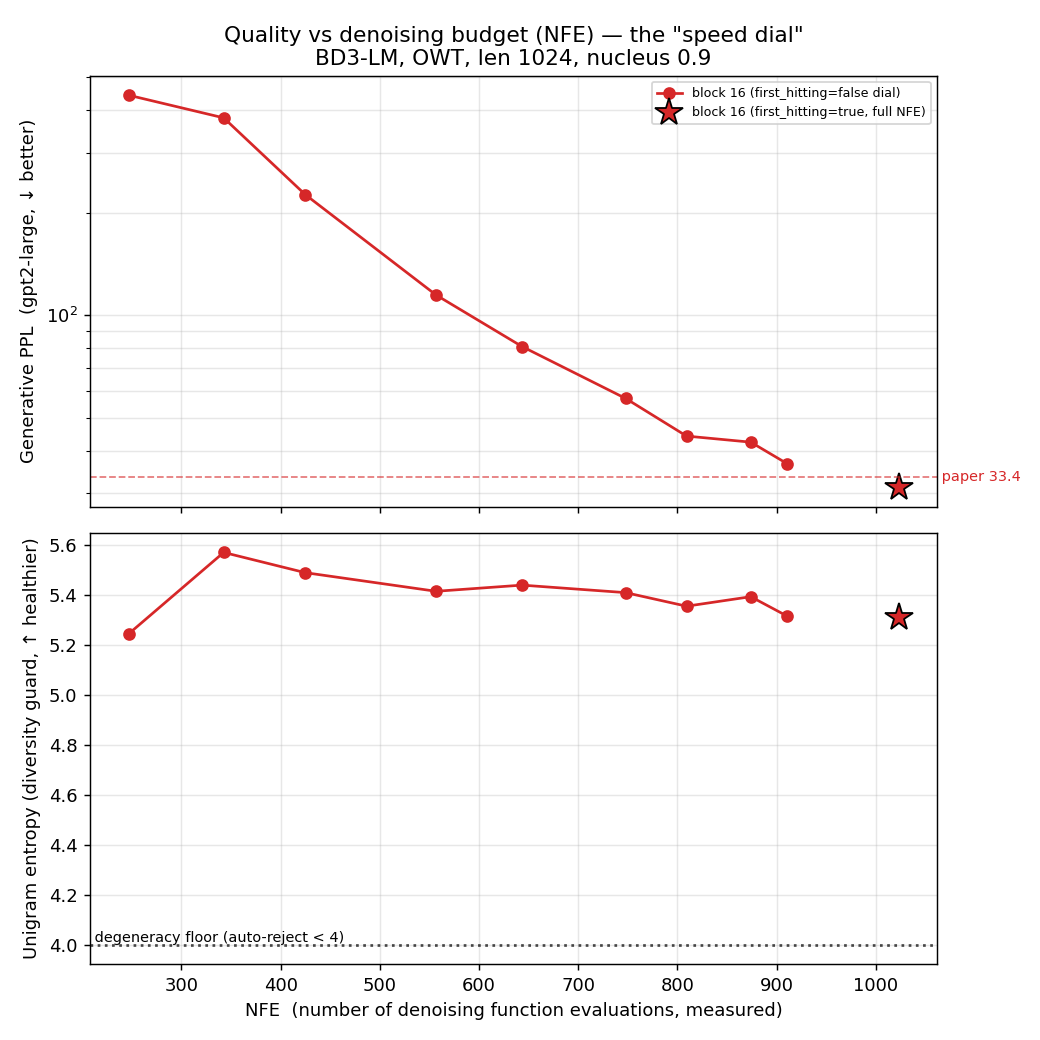
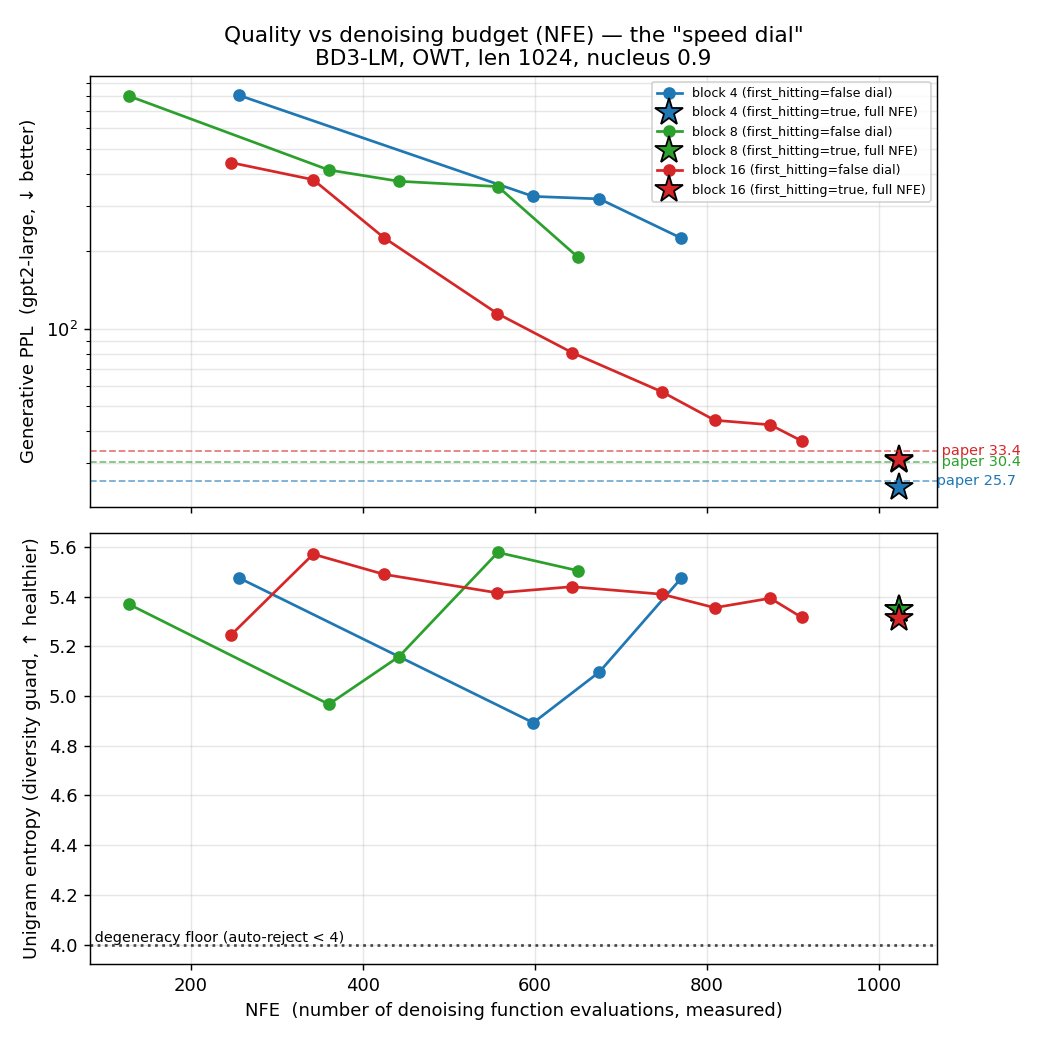
exp(nfe-p2): Gate G2-N — block×NFE curves CROSS (H2 flipped)
Blocks {4,8,16} x NFE (jobs 7417509-12). Anchors reproduce paper
(24.2/31.0/31.2 vs 25.7/30.4/33.4).
Finding: curves cross. At matched mid-NFE the LARGER block (16) wins
(115 vs 327/357 @ NFE~557); at full NFE the SMALLER block (4) wins (24.2).
=> H2 rejected/flipped: smaller blocks need MORE total NFE to converge;
the optimal block depends on the NFE budget (turbo=big block, quality=small).
T=2 is a degeneracy floor for all blocks (entropy<4 auto-reject).

diff --git a/LOG.md b/LOG.md
@@ -4,6 +4,31 @@ Newest entries at top. This is the running devops/lab log: what was run, where, 
 
 ---
 
+## 2026-06-03 — ✅ NfePareto Phase 2: block×NFE — H2 FLIPPED (curves cross) (Gate G2-N)
+
+Jobs 7417509 (b4), 7417510 (b8) fh=false sweeps + 7417511/12 fh=true anchors. All COMPLETED.
+Blocks {4,8,16} × NFE. `results/nfe_quality_curve.png` (now 3 series + paper lines).
+
+**Anchors reproduce paper (fh=true, NFE 1023):** b4 24.2 (paper 25.7), b8 31.0 (30.4), b16 31.2 (33.4) — all within ~6%.
+
+**gen-PPL at matched NFE (the headline — curves CROSS):**
+| NFE | block4 | block8 | block16 |
+|--:|--:|--:|--:|
+| ~130–260 | 808 | 803 | 442 |
+| ~557 | 327 | 357 | **115** |
+| ~650 | 320 | 190 | **81** |
+| 1023 | **24.2** | 31.0 | 31.2 |
+
+- **Gate G2-N — H2 REJECTED & FLIPPED.** Original H2 (NFE* grows with block size) is wrong: **smaller blocks
+  need MORE total NFE to converge** (b4 still 225 @ NFE 770; b16 57 @ 748). At *equal steps-per-token* the
+  larger block wins (more tokens denoised jointly/step; shorter AR chain → less cross-block error compounding).
+- **Richer confirmed finding: block size × NFE interact — optimal block depends on the NFE budget.**
+  Low NFE (turbo) → bigger block (16) degrades gracefully; full NFE (quality) → smaller block (4) best.
+  The two orderings cross ⇒ a concrete turbo/quality operating recipe (the 2-D map this project targets).
+- T=2 fails for ALL blocks (entropy<4 auto-reject) = consistent low-step degeneracy floor. Entropy 4.9–5.6 healthy.
+- **Next (Phase 3):** weight-independent throughput (`bench_gen`, hf_random, fh=false) at matched (block,NFE)
+  points → fuse into the unified gen-PPL-vs-throughput Pareto + the enterprise "turbo/quality" reading.
+
 ## 2026-06-03 — ✅ NfePareto Phase 1: NFE→quality curve at block 16 (Gate G1-N)
 
 Job 7415004 (gpu/V100, 57:51, COMPLETED clean). block-16, fh=false, T∈{4,6,8,12,16,24,32,48,64}

diff --git a/SPEC_NFE.md b/SPEC_NFE.md
@@ -96,9 +96,11 @@ full-NFE point per block — our `first_hitting=false` sweep traces the whole ge
   no hard plateau (31@1023 vs 44@809). Few-step sampling lossy on the base model (knee gen-PPL 81 = 2.6×
   full-NFE). Entropy healthy 5.24–5.57 throughout. Curve: `results/nfe_quality_curve.png`.
 
-### Phase 2 — 2-D sweep block × NFE (moderate)
-- Block ∈ {4,8,16} (released) × NFE grid; build gen-PPL & throughput surfaces.
-- **Gate G2-N:** H2 verdict (does NFE* grow with block size?).
+### Phase 2 — 2-D sweep block × NFE (moderate) ✅ DONE
+- Blocks {4,8,16} (released) × NFE; jobs 7417509–7417512. Anchors reproduce paper (24.2/31.0/31.2 vs 25.7/30.4/33.4).
+- **Gate G2-N ✅ — H2 FLIPPED.** Curves CROSS: at matched mid-NFE, larger block (16) is best (115 vs 327/357 @ NFE~557);
+  at full NFE, smaller block (4) is best (24.2). So **smaller blocks need MORE total NFE to converge** (opposite of H2),
+  and **the optimal block depends on the NFE budget** (turbo→big block, quality→small block). T=2 = degeneracy floor for all blocks.
 
 ### Phase 3 — Unified Pareto
 - Merge with BlockPareto throughput; plot gen-PPL vs throughput over all (block, NFE); mark frontier;